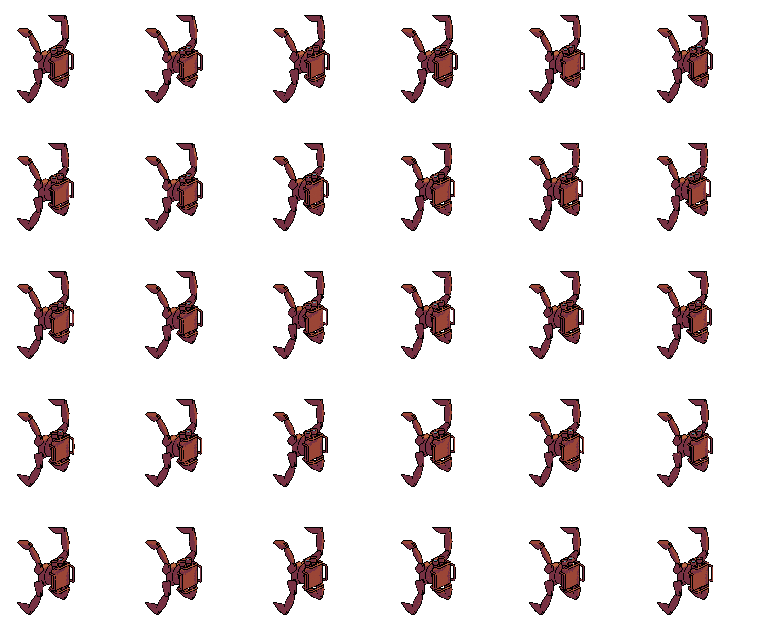
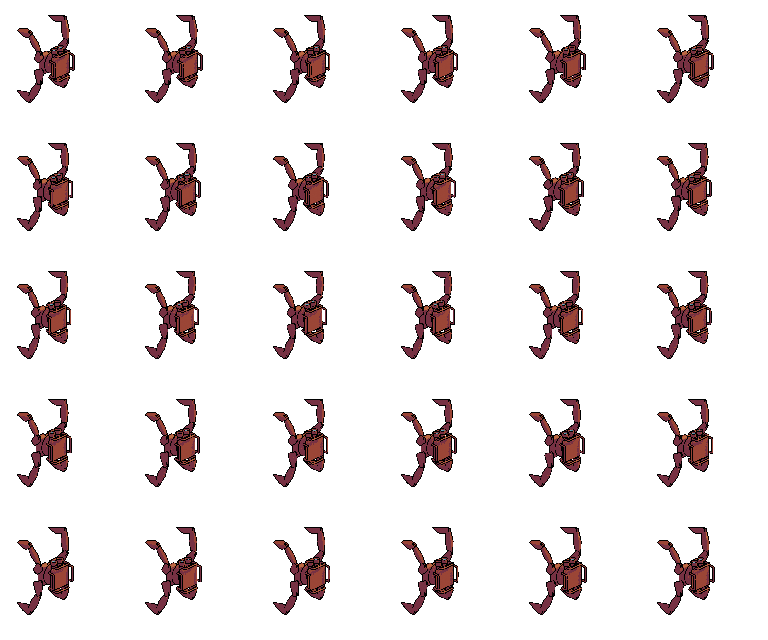
Climbing fixes

diff --git a/src/game/PlayerController.ts b/src/game/PlayerController.ts
@@ -67,6 +67,7 @@ export class PlayerController extends Behaviour {
   canClimbUp(dir: Vec3): boolean {
     if (!this.current.down.equals(new Vec3(0, 0, -1))) return false;
     if (dir.z !== 0) return false;
+    if (dir.x < 0 || dir.y < 0) return false;
     const currentBlock = this.current.translation;
     const floor = currentBlock.add(this.current.down);
     if (!this.world.hasBlock(floor)) return false;
@@ -115,16 +116,19 @@ export class PlayerController extends Behaviour {
     return isoInput;
   }
 
-  isoToWorldSpace(iso: Vec2): Vec3 {
-    if (iso.x > 0 && iso.y < 0) {
-      return new Vec3(1, 0, 0);
-    } else if (iso.x < 0 && iso.y < 0) {
-      return new Vec3(0, 1, 0);
-    } else if (iso.x > 0 && iso.y > 0) {
-      return new Vec3(0, -1, 0);
-    } else if (iso.x < 0 && iso.y > 0) {
-      return new Vec3(-1, 0, 0);
-    } else return new Vec3(0, 0, 0);
+  isoToWorldSpace(iso: Vec2, grounded: boolean): Vec3 {
+    if (grounded) {
+      // ISO Controls on the ground
+      if (iso.x > 0 && iso.y < 0) return new Vec3(1, 0, 0);
+      if (iso.x < 0 && iso.y < 0) return new Vec3(0, 1, 0);
+      if (iso.x > 0 && iso.y > 0) return new Vec3(0, -1, 0);
+      if (iso.x < 0 && iso.y > 0) return new Vec3(-1, 0, 0);
+      return new Vec3(0, 0, 0);
+    } else {
+      if (iso.y < 0) return new Vec3(0, 0, 1);
+      if (iso.y > 0) return new Vec3(0, 0, -1);
+      return new Vec3(0, 0, 0);
+    }
   }
 
   currentAction?: Action;
@@ -141,8 +145,10 @@ export class PlayerController extends Behaviour {
     // Update current action
     if (this.currentAction) {
       this.currentAction.updateAction(actor, time);
-    } // Maybe set new action
-    else {
+    }
+
+    // Maybe set new action
+    if (!this.currentAction) {
       if (this.pollJumping() && this.canJump()) {
         const jump = new Jump();
         jump.startAction(
@@ -163,7 +169,11 @@ export class PlayerController extends Behaviour {
           time,
         );
       } else {
-        const orthInput = this.isoToWorldSpace(this.pollIsometricInput());
+        const grounded = actor.position.down.z === -1;
+        const orthInput = this.isoToWorldSpace(
+          this.pollIsometricInput(),
+          grounded,
+        );
         if (orthInput.sqrMag() === 0) {
           // newState = "idle";
         } else if (this.canWalk(orthInput)) {

diff --git a/src/engine/SpriteRenderer.ts b/src/engine/SpriteRenderer.ts
@@ -12,7 +12,7 @@ export class SpriteRenderer {
     renderReqs: RenderReq[] = [];
 
     renderSprite(sheet: Spritesheet, index: number, world: Vec3) {
-        const zIndex = world.z * 2 - world.x - world.y;
+        const zIndex = world.z - world.x - world.y;
         const screen = worldToScreen(world);
         const spriteLoc = sheet.sprites[index];
         if (!spriteLoc) return;

diff --git a/src/game/main.ts b/src/game/main.ts
@@ -299,7 +299,7 @@ const createRange = (n: number) => new Array(n).fill(0).map((_, i) => i);
     let robot: Actor;
     let worldRenderer: Actor;
     const world = new World(new Vec2(5, 5));
-    world.addBox(new Vec3(2, 2, 0), new Vec3(1, 1, 1), {
+    world.addBox(new Vec3(2, 2, 0), new Vec3(1, 1, 3), {
         isClimbable: true,
         spriteIndex: 0,
     });

diff --git a/src/game/World.ts b/src/game/World.ts
@@ -38,7 +38,7 @@ export class World {
     for (let x = 0; x < size.x; x++) {
       for (let y = 0; y < size.y; y++) {
         for (let z = 0; z < size.z; z++) {
-          this.addBlock(position, block);
+          this.addBlock(position.add(new Vec3(x, y, z)), block);
         }
       }
     }
